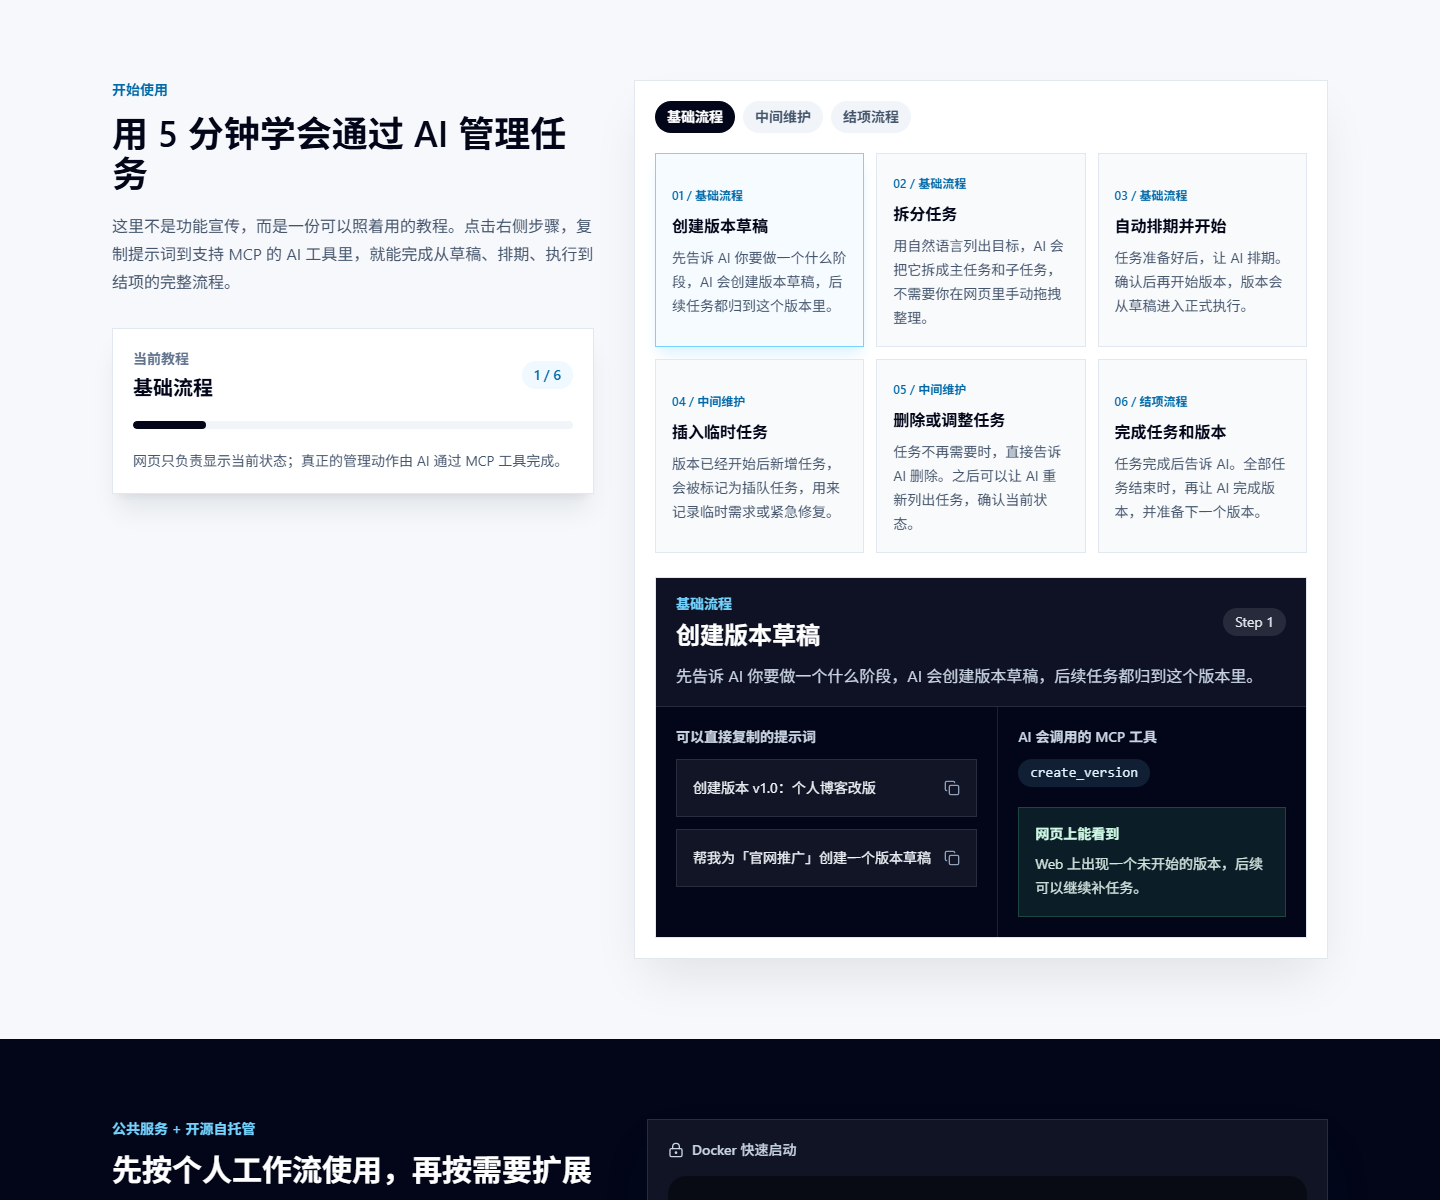
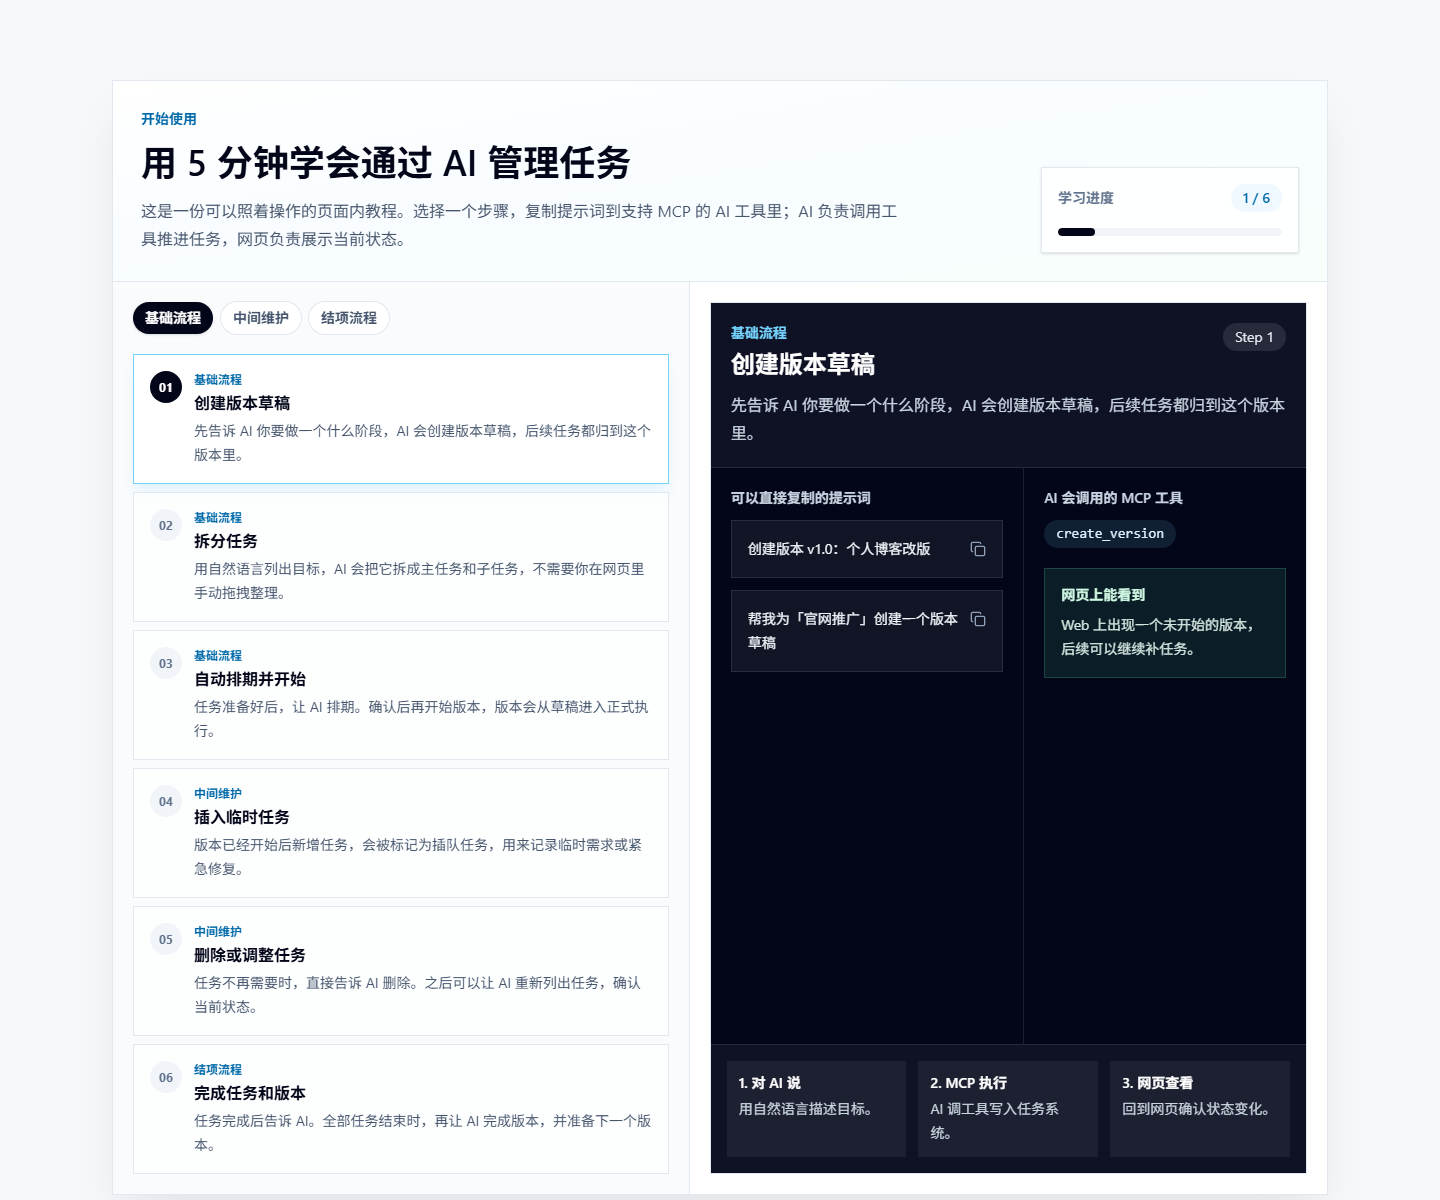
优化首页教程区布局

diff --git a/web/src/pages/LandingPage.tsx b/web/src/pages/LandingPage.tsx
@@ -229,6 +229,7 @@ function UsageGuide() {
   const [activeIndex, setActiveIndex] = useState(0)
   const activeStep = guideSteps[activeIndex]
   const groups = [...new Set(guideSteps.map((step) => step.group))]
+  const progress = ((activeIndex + 1) / guideSteps.length) * 100
 
   const copyPrompt = async (prompt: string) => {
     try {
@@ -240,133 +241,160 @@ function UsageGuide() {
 
   return (
     <section id="how-it-works" className="bg-[#f6f8fb]">
-      <div className="mx-auto grid max-w-7xl gap-10 px-4 py-20 sm:px-6 lg:grid-cols-[0.82fr_1.18fr] lg:px-8">
-        <div className="lg:sticky lg:top-24 lg:self-start">
-          <Reveal>
-            <p className="text-sm font-semibold text-sky-700">开始使用</p>
-            <h2 className="mt-3 break-all text-3xl font-semibold text-slate-950 sm:break-words sm:text-4xl">
-              用 5 分钟学会通过 AI 管理任务
-            </h2>
-            <p className="mt-5 leading-7 text-slate-600">
-              这里不是功能宣传，而是一份可以照着用的教程。点击右侧步骤，复制提示词到支持 MCP 的 AI 工具里，就能完成从草稿、排期、执行到结项的完整流程。
-            </p>
-            <div className="mt-8 rounded-2xl border border-slate-200 bg-white p-5 shadow-xl shadow-slate-900/8">
-              <div className="flex items-center justify-between gap-4">
-                <div>
-                  <p className="text-sm font-semibold text-slate-500">当前教程</p>
-                  <p className="mt-1 text-xl font-semibold text-slate-950">{activeStep.group}</p>
+      <div className="mx-auto max-w-7xl px-4 py-20 sm:px-6 lg:px-8">
+        <Reveal>
+          <div className="overflow-hidden rounded-3xl border border-slate-200 bg-white shadow-2xl shadow-slate-900/10">
+            <div className="border-b border-slate-200 bg-gradient-to-br from-white via-sky-50/45 to-emerald-50/35 p-5 sm:p-7">
+              <div className="grid gap-6 lg:grid-cols-[1fr_auto] lg:items-end">
+                <div className="max-w-3xl">
+                  <p className="text-sm font-semibold text-sky-700">开始使用</p>
+                  <h2 className="mt-3 text-3xl font-semibold text-slate-950 sm:text-4xl">
+                    用 5 分钟学会通过 AI 管理任务
+                  </h2>
+                  <p className="mt-4 leading-7 text-slate-600">
+                    这是一份可以照着操作的页面内教程。选择一个步骤，复制提示词到支持 MCP 的 AI 工具里；AI 负责调用工具推进任务，网页负责展示当前状态。
+                  </p>
                 </div>
-                <span className="rounded-full bg-sky-50 px-3 py-1 text-sm font-semibold text-sky-700">
-                  {activeIndex + 1} / {guideSteps.length}
-                </span>
-              </div>
-              <div className="mt-5 h-2 overflow-hidden rounded-full bg-slate-100">
-                <div
-                  className="h-full rounded-full bg-slate-950 transition-all duration-500"
-                  style={{ width: `${((activeIndex + 1) / guideSteps.length) * 100}%` }}
-                />
-              </div>
-              <p className="mt-5 text-sm leading-6 text-slate-600">
-                网页只负责显示当前状态；真正的管理动作由 AI 通过 MCP 工具完成。
-              </p>
-            </div>
-          </Reveal>
-        </div>
-
-        <Reveal delay={120}>
-          <div className="min-w-0 rounded-3xl border border-slate-200 bg-white p-4 shadow-2xl shadow-slate-900/10 sm:p-5">
-            <div className="flex flex-wrap gap-2">
-              {groups.map((group) => {
-                const firstIndex = guideSteps.findIndex((step) => step.group === group)
-                const isActive = activeStep.group === group
-                return (
-                  <button
-                    key={group}
-                    type="button"
-                    onClick={() => setActiveIndex(firstIndex)}
-                    className={cn(
-                      'rounded-full px-3 py-1.5 text-sm font-semibold transition',
-                      isActive
-                        ? 'bg-slate-950 text-white'
-                        : 'bg-slate-100 text-slate-600 hover:bg-slate-200',
-                    )}
-                  >
-                    {group}
-                  </button>
-                )
-              })}
-            </div>
-
-            <div className="mt-5 grid gap-3 md:grid-cols-2 xl:grid-cols-3">
-              {guideSteps.map((step, index) => (
-                <button
-                  key={`${step.group}-${step.title}`}
-                  type="button"
-                  onClick={() => setActiveIndex(index)}
-                  className={cn(
-                    'guide-step-card min-w-0 rounded-2xl border p-4 text-left transition',
-                    index === activeIndex
-                      ? 'border-sky-300 bg-sky-50/70 shadow-lg shadow-sky-100'
-                      : 'border-slate-200 bg-slate-50 hover:border-slate-300 hover:bg-white',
-                  )}
-                >
-                  <span className="text-xs font-semibold text-sky-700">
-                    {String(index + 1).padStart(2, '0')} / {step.group}
-                  </span>
-                  <h3 className="mt-2 text-base font-semibold text-slate-950">{step.title}</h3>
-                  <p className="mt-2 text-sm leading-6 text-slate-600">{step.description}</p>
-                </button>
-              ))}
-            </div>
-
-            <article className="mt-6 min-w-0 overflow-hidden rounded-3xl border border-slate-200 bg-slate-950 text-white">
-              <div className="border-b border-white/10 bg-white/5 px-5 py-4">
-                <div className="flex flex-wrap items-center justify-between gap-3">
-                  <div>
-                    <p className="text-sm font-semibold text-sky-300">{activeStep.group}</p>
-                    <h3 className="mt-1 text-2xl font-semibold">{activeStep.title}</h3>
+                <div className="min-w-0 rounded-2xl border border-slate-200 bg-white/85 p-4 shadow-sm">
+                  <div className="flex items-center justify-between gap-4">
+                    <span className="text-sm font-semibold text-slate-500">学习进度</span>
+                    <span className="rounded-full bg-sky-50 px-3 py-1 text-sm font-semibold text-sky-700">
+                      {activeIndex + 1} / {guideSteps.length}
+                    </span>
                   </div>
-                  <span className="rounded-full bg-white/10 px-3 py-1 text-sm text-slate-200">
-                    Step {activeIndex + 1}
-                  </span>
+                  <div className="mt-4 h-2 w-56 max-w-full overflow-hidden rounded-full bg-slate-100">
+                    <div
+                      className="h-full rounded-full bg-slate-950 transition-all duration-500"
+                      style={{ width: progress + '%' }}
+                    />
+                  </div>
                 </div>
-                <p className="mt-3 leading-7 text-slate-300">{activeStep.description}</p>
               </div>
+            </div>
 
-              <div className="grid gap-0 lg:grid-cols-[1.05fr_0.95fr]">
-                <div className="min-w-0 p-5">
-                  <p className="text-sm font-semibold text-slate-300">可以直接复制的提示词</p>
-                  <div className="mt-3 space-y-3">
-                    {activeStep.prompts.map((prompt) => (
+            <div className="grid min-h-[620px] lg:grid-cols-[0.95fr_1.05fr]">
+              <aside className="min-w-0 border-b border-slate-200 bg-slate-50/70 p-4 sm:p-5 lg:border-b-0 lg:border-r">
+                <div className="flex flex-wrap gap-2">
+                  {groups.map((group) => {
+                    const firstIndex = guideSteps.findIndex((step) => step.group === group)
+                    const isActive = activeStep.group === group
+                    return (
                       <button
-                        key={prompt}
+                        key={group}
                         type="button"
-                        onClick={() => copyPrompt(prompt)}
-                        className="group flex w-full min-w-0 items-start justify-between gap-3 rounded-2xl border border-white/10 bg-white/6 p-4 text-left transition hover:border-sky-300/50 hover:bg-sky-300/10"
+                        onClick={() => setActiveIndex(firstIndex)}
+                        className={cn(
+                          'rounded-full px-3 py-1.5 text-sm font-semibold transition',
+                          isActive
+                            ? 'bg-slate-950 text-white shadow-sm'
+                            : 'bg-white text-slate-600 ring-1 ring-slate-200 hover:bg-slate-100',
+                        )}
                       >
-                        <span className="min-w-0 text-sm leading-6 text-slate-100">{prompt}</span>
-                        <Copy className="mt-1 size-4 shrink-0 text-slate-400 transition group-hover:text-sky-200" />
+                        {group}
                       </button>
-                    ))}
-                  </div>
+                    )
+                  })}
                 </div>
 
-                <div className="min-w-0 border-t border-white/10 p-5 lg:border-l lg:border-t-0">
-                  <p className="text-sm font-semibold text-slate-300">AI 会调用的 MCP 工具</p>
-                  <div className="mt-3 flex flex-wrap gap-2">
-                    {activeStep.tools.map((tool) => (
-                      <code key={tool} className="rounded-full bg-sky-300/12 px-3 py-1 text-sm text-sky-100">
-                        {tool}
-                      </code>
-                    ))}
+                <div className="mt-5 grid gap-2">
+                  {guideSteps.map((step, index) => (
+                    <button
+                      key={`${step.group}-${step.title}`}
+                      type="button"
+                      onClick={() => setActiveIndex(index)}
+                      className={cn(
+                        'guide-step-card grid min-w-0 grid-cols-[auto_1fr] gap-3 rounded-2xl border p-4 text-left transition',
+                        index === activeIndex
+                          ? 'border-sky-300 bg-white shadow-lg shadow-sky-100'
+                          : 'border-slate-200 bg-white/65 hover:border-slate-300 hover:bg-white',
+                      )}
+                    >
+                      <span
+                        className={cn(
+                          'flex size-8 shrink-0 items-center justify-center rounded-full text-xs font-bold',
+                          index === activeIndex ? 'bg-slate-950 text-white' : 'bg-slate-100 text-slate-500',
+                        )}
+                      >
+                        {String(index + 1).padStart(2, '0')}
+                      </span>
+                      <span className="min-w-0">
+                        <span className="block text-xs font-semibold text-sky-700">{step.group}</span>
+                        <span className="mt-1 block text-base font-semibold text-slate-950">{step.title}</span>
+                        <span className="mt-1 block text-sm leading-6 text-slate-600">{step.description}</span>
+                      </span>
+                    </button>
+                  ))}
+                </div>
+              </aside>
+
+              <article className="flex min-w-0 flex-col bg-white p-4 sm:p-5">
+                <div className="flex min-w-0 flex-1 flex-col overflow-hidden rounded-3xl border border-slate-200 bg-slate-950 text-white">
+                  <div className="border-b border-white/10 bg-white/5 p-5">
+                    <div className="flex flex-wrap items-start justify-between gap-3">
+                      <div>
+                        <p className="text-sm font-semibold text-sky-300">{activeStep.group}</p>
+                        <h3 className="mt-1 text-2xl font-semibold">{activeStep.title}</h3>
+                      </div>
+                      <span className="rounded-full bg-white/10 px-3 py-1 text-sm text-slate-200">
+                        Step {activeIndex + 1}
+                      </span>
+                    </div>
+                    <p className="mt-3 leading-7 text-slate-300">{activeStep.description}</p>
                   </div>
-                  <div className="mt-5 rounded-2xl border border-emerald-300/20 bg-emerald-300/10 p-4">
-                    <p className="text-sm font-semibold text-emerald-100">网页上能看到</p>
-                    <p className="mt-2 text-sm leading-6 text-emerald-50/90">{activeStep.result}</p>
+
+                  <div className="grid flex-1 gap-0 lg:grid-cols-[1.05fr_0.95fr]">
+                    <div className="min-w-0 p-5">
+                      <p className="text-sm font-semibold text-slate-300">可以直接复制的提示词</p>
+                      <div className="mt-3 space-y-3">
+                        {activeStep.prompts.map((prompt) => (
+                          <button
+                            key={prompt}
+                            type="button"
+                            onClick={() => copyPrompt(prompt)}
+                            className="group flex w-full min-w-0 items-start justify-between gap-3 rounded-2xl border border-white/10 bg-white/6 p-4 text-left transition hover:border-sky-300/50 hover:bg-sky-300/10"
+                          >
+                            <span className="min-w-0 text-sm leading-6 text-slate-100">{prompt}</span>
+                            <Copy className="mt-1 size-4 shrink-0 text-slate-400 transition group-hover:text-sky-200" />
+                          </button>
+                        ))}
+                      </div>
+                    </div>
+
+                    <div className="min-w-0 border-t border-white/10 p-5 lg:border-l lg:border-t-0">
+                      <p className="text-sm font-semibold text-slate-300">AI 会调用的 MCP 工具</p>
+                      <div className="mt-3 flex flex-wrap gap-2">
+                        {activeStep.tools.map((tool) => (
+                          <code key={tool} className="rounded-full bg-sky-300/12 px-3 py-1 text-sm text-sky-100">
+                            {tool}
+                          </code>
+                        ))}
+                      </div>
+                      <div className="mt-5 rounded-2xl border border-emerald-300/20 bg-emerald-300/10 p-4">
+                        <p className="text-sm font-semibold text-emerald-100">网页上能看到</p>
+                        <p className="mt-2 text-sm leading-6 text-emerald-50/90">{activeStep.result}</p>
+                      </div>
+                    </div>
+                  </div>
+
+                  <div className="border-t border-white/10 bg-white/5 p-4">
+                    <div className="grid gap-3 text-sm text-slate-300 sm:grid-cols-3">
+                      <div className="rounded-2xl bg-white/6 p-3">
+                        <span className="font-semibold text-white">1. 对 AI 说</span>
+                        <p className="mt-1 leading-6">用自然语言描述目标。</p>
+                      </div>
+                      <div className="rounded-2xl bg-white/6 p-3">
+                        <span className="font-semibold text-white">2. MCP 执行</span>
+                        <p className="mt-1 leading-6">AI 调工具写入任务系统。</p>
+                      </div>
+                      <div className="rounded-2xl bg-white/6 p-3">
+                        <span className="font-semibold text-white">3. 网页查看</span>
+                        <p className="mt-1 leading-6">回到网页确认状态变化。</p>
+                      </div>
+                    </div>
                   </div>
                 </div>
-              </div>
-            </article>
+              </article>
+            </div>
           </div>
         </Reveal>
       </div>
